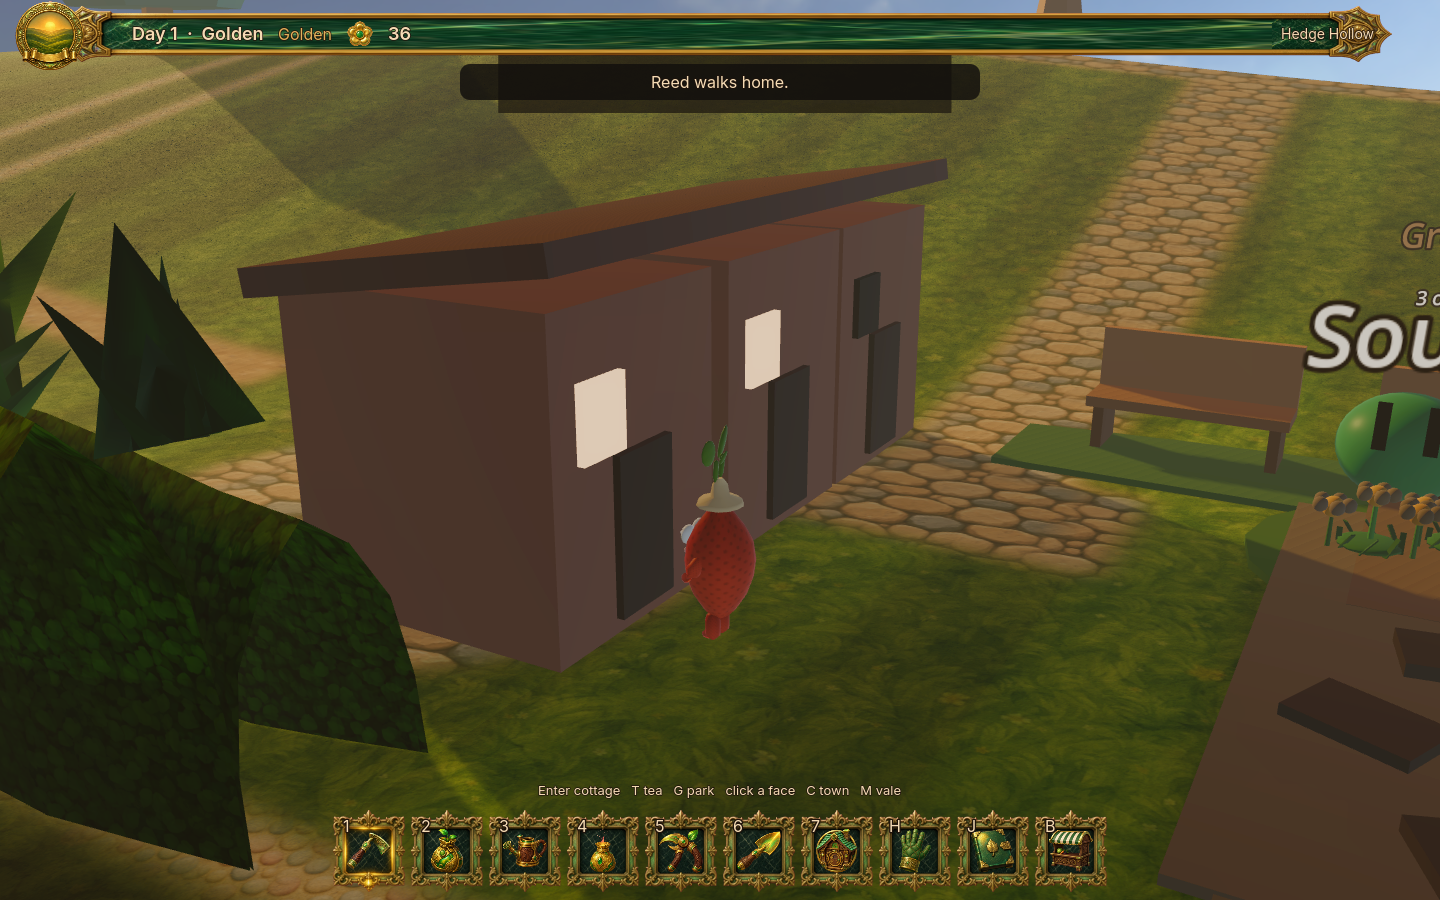
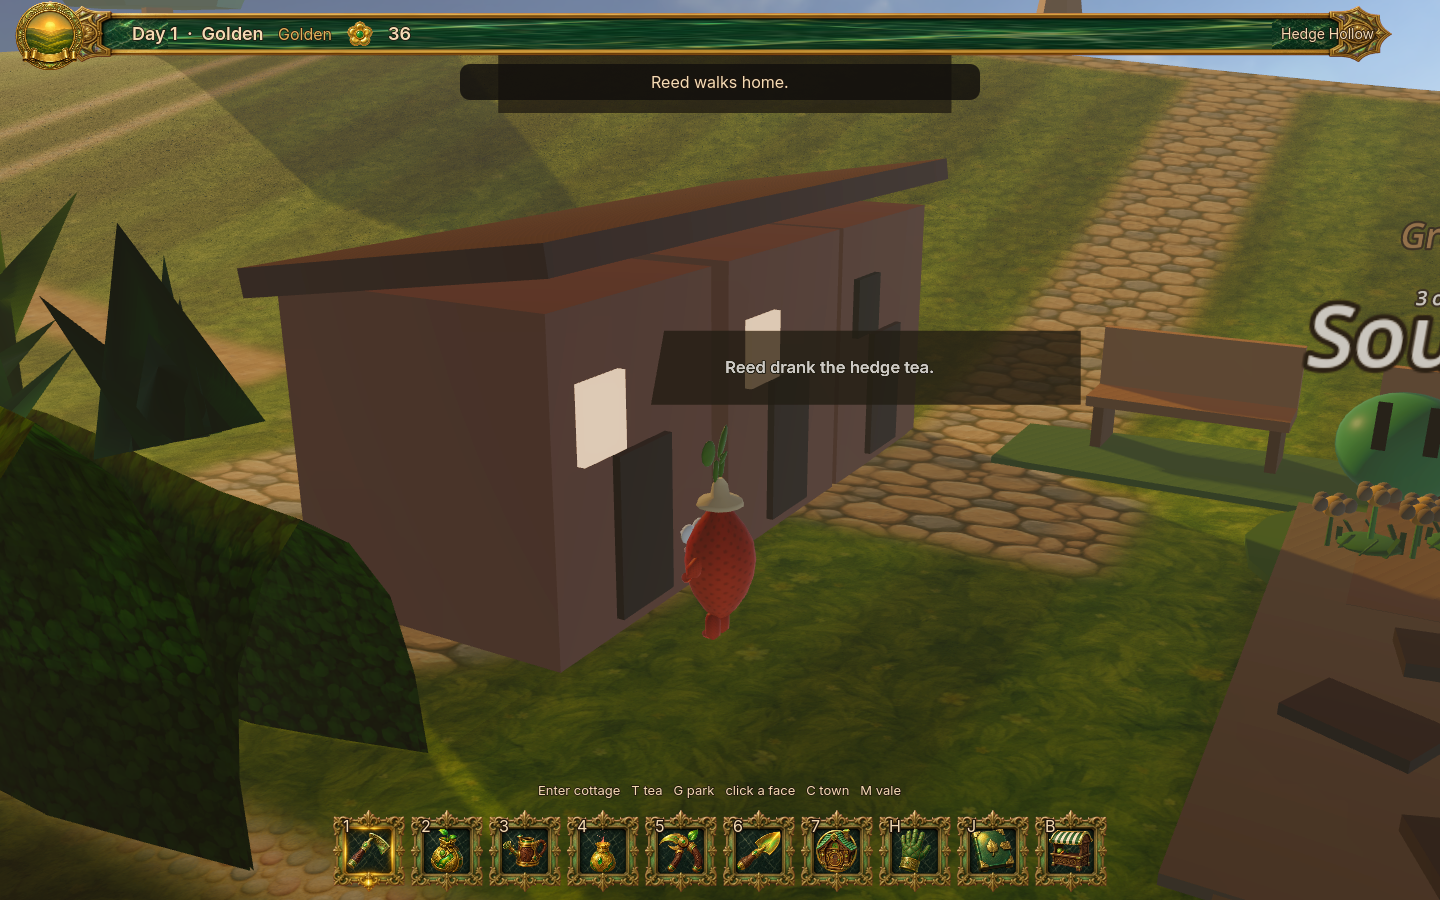
Let a click on the cottage household say the tea line.
Hands on that tomato folk speaks the saved sip, in front of the door. The town shot quits unless those words are on the label.

diff --git a/docs/CURRENT_STATE.md b/docs/CURRENT_STATE.md
@@ -24,7 +24,7 @@ Pass 2 from `petal/08-integration` is in this tree: inspect snack, pouch feed, h
 Approved jelly cut-outs (`assets/art/images/PETAL-08-101/`) are the resting card. Hunger, a grab, a poke, or a throw shows a shaded gel icon: one body, two black vertical eyes, a small highlight. The eyes stay unshaded so the sun does not grey them out. The icon tips toward the camera.
 Sign-off CAM_06 still stages its own `SignoffJelly` card.
 Grove Park, once Nessa files it, is a lawn with benches and one worn walk from the lawn to the hedge gate. Lumen and Bram walk through that gate to the grass and stay there. `grove_park.active` stays false.
-When the road rumour is filed, six cottages stand on South Lane between the gate and the lawn. Occupied houses light a window. If the camera is near the gate, the first household (a tomato folk, surname from the lane record) stands at that door. Enter, while the camera is near that cottage, steps into the kitchen. A cup on the table holds hedge tea when the kettle has a pot or a crate of it. T drinks one serving and the cup empties when that was the last. G, once Grove Park is filed, walks that household from the cottage door, through the gate, onto the lawn. G again walks them home through the gate. The lawn spot survives save and load. While they stand on the grass, the Grove Park count includes them and their cottage window goes dark. The window lights again when they are at the door. A hungry Bellhelp can stand on that same lawn with both black eyes still showing. The same name is used in the kitchen, on the path, and on the place page. Esc steps back out. The place page says where they are: kitchen, walking, lawn, or cottage door. After a sip it also keeps “drank the hedge tea,” including across save and load. The bottom hint reads Enter cottage, T tea, G park. Farther houses stay counts. `grove_park.active` stays false.
+When the road rumour is filed, six cottages stand on South Lane between the gate and the lawn. Occupied houses light a window. If the camera is near the gate, the first household (a tomato folk, surname from the lane record) stands at that door. Enter, while the camera is near that cottage, steps into the kitchen. A cup on the table holds hedge tea when the kettle has a pot or a crate of it. T drinks one serving and the cup empties when that was the last. G, once Grove Park is filed, walks that household from the cottage door, through the gate, onto the lawn. G again walks them home through the gate. The lawn spot survives save and load. While they stand on the grass, the Grove Park count includes them and their cottage window goes dark. The window lights again when they are at the door. A hungry Bellhelp can stand on that same lawn with both black eyes still showing. The same name is used in the kitchen, on the path, and on the place page. Esc steps back out. The place page says where they are: kitchen, walking, lawn, or cottage door. After a sip it also keeps “drank the hedge tea,” including across save and load. The bottom hint reads Enter cottage, T tea, G park. Clicking the household says the tea line. Farther houses stay counts. `grove_park.active` stays false.
 
 ## ACTIVE AGENTS
 
@@ -80,7 +80,7 @@ Executive on this branch. No other agent is writing this tree in this run.
 
 `docs/screenshots/grove_together.png` (1440×900). Reed and a hungry Bellhelp share the lawn. The jelly shows two black eyes. The sign still reads “4 on the lawn.”
 
-`docs/screenshots/cottage_home.png` (1440×900). G again brought them back to the cottage door. The line reads “Reed walks home.” The cottage window is lit.
+`docs/screenshots/cottage_home.png` (1440×900). G brought them back to the lit door. Above them the line reads “Reed drank the hedge tea.” The hint shows Enter, T, and G.
 
 `docs/screenshots/town_parish.png` (1440×900). After reload the page still says “Reed is at the cottage door” and “Reed drank the hedge tea.” The near-row matches the door. Moss and the lawn visitors still read “still no body.”
 

diff --git a/docs/CAMPAIGN_BOARD.md b/docs/CAMPAIGN_BOARD.md
@@ -9,7 +9,7 @@ Playable Hedge Hollow on `petal/09-art-rescue`, continued on `cursor/playable-je
 - Tend the four beds. Feed a jelly from a ripe plant or the pouch.
 - Grab, nuzzle, throw. A fed idle jelly shows the approved cut-out. Hunger or a grab shows a shaded gel icon with two black eyes.
 - Stall, jam, tea, journal. Vale map on M. Town page on C.
-- Grove Park opens after the road rumour and Nessa's filing. Lumen and Bram walk through the hedge gate and stay on the grass. South Lane puts six cottages on that path when the rumour is filed. A near camera stands one tomato household at the first door. Enter steps into that kitchen. T drinks one kettle tea. G walks that household through the gate to the lawn, the lawn count includes them, their cottage window goes dark while they are out, and a hungry Bellhelp can share that grass with both eyes showing. G again walks them home. The place page names where they are, keeps the tea sip after reload, and Reed’s near-row matches. Esc steps back out. The hint shows Enter, T, and G. Catalog stays `active: false`.
+- Grove Park opens after the road rumour and Nessa's filing. Lumen and Bram walk through the hedge gate and stay on the grass. South Lane puts six cottages on that path when the rumour is filed. A near camera stands one tomato household at the first door. Enter steps into that kitchen. T drinks one kettle tea. G walks that household through the gate to the lawn, the lawn count includes them, their cottage window goes dark while they are out, and a hungry Bellhelp can share that grass with both eyes showing. G again walks them home. The place page names where they are, keeps the tea sip after reload, and Reed’s near-row matches. Esc steps back out. The hint shows Enter, T, and G. Clicking the household says the tea line. Catalog stays `active: false`.
 
 ## NEXT
 
